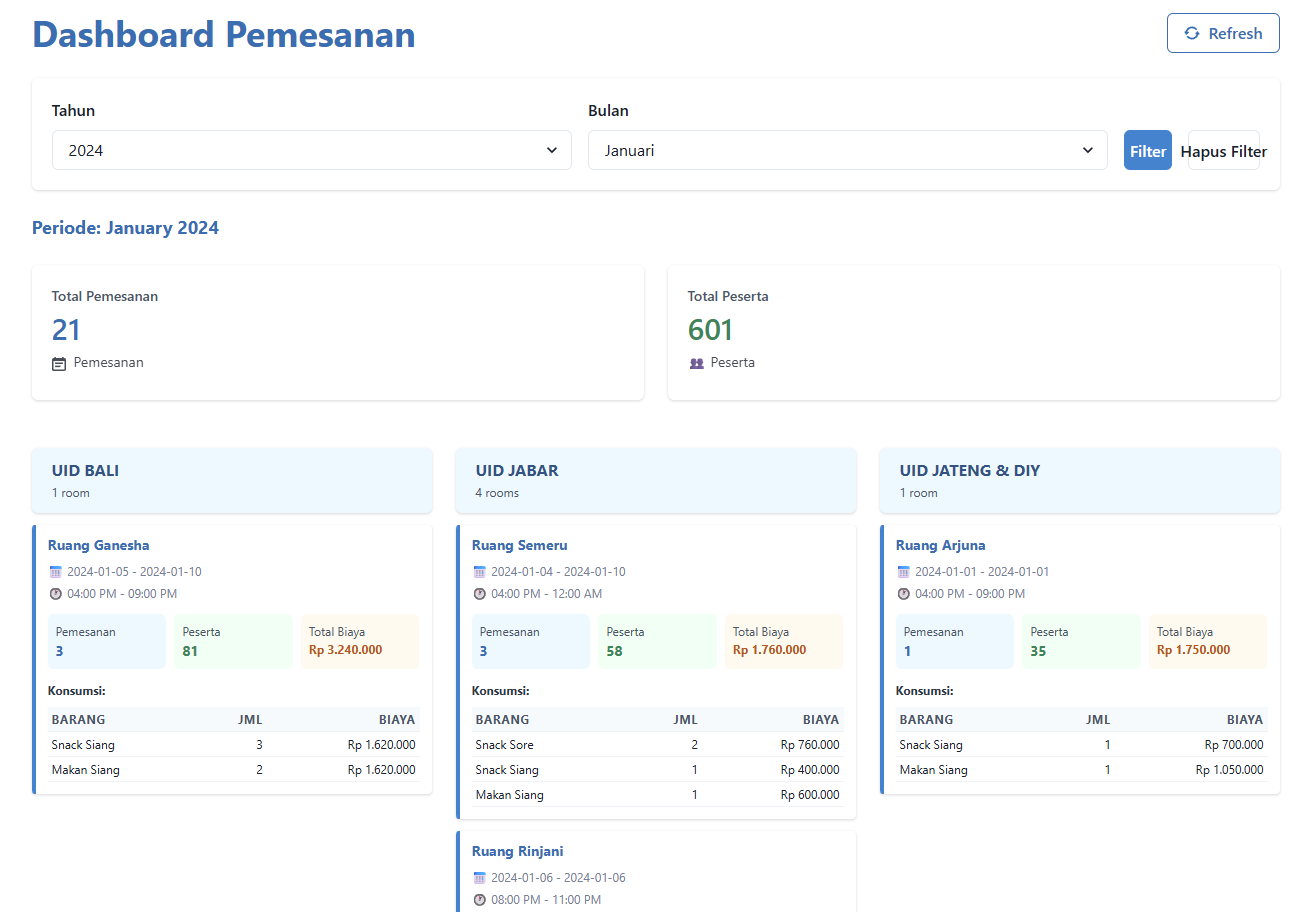
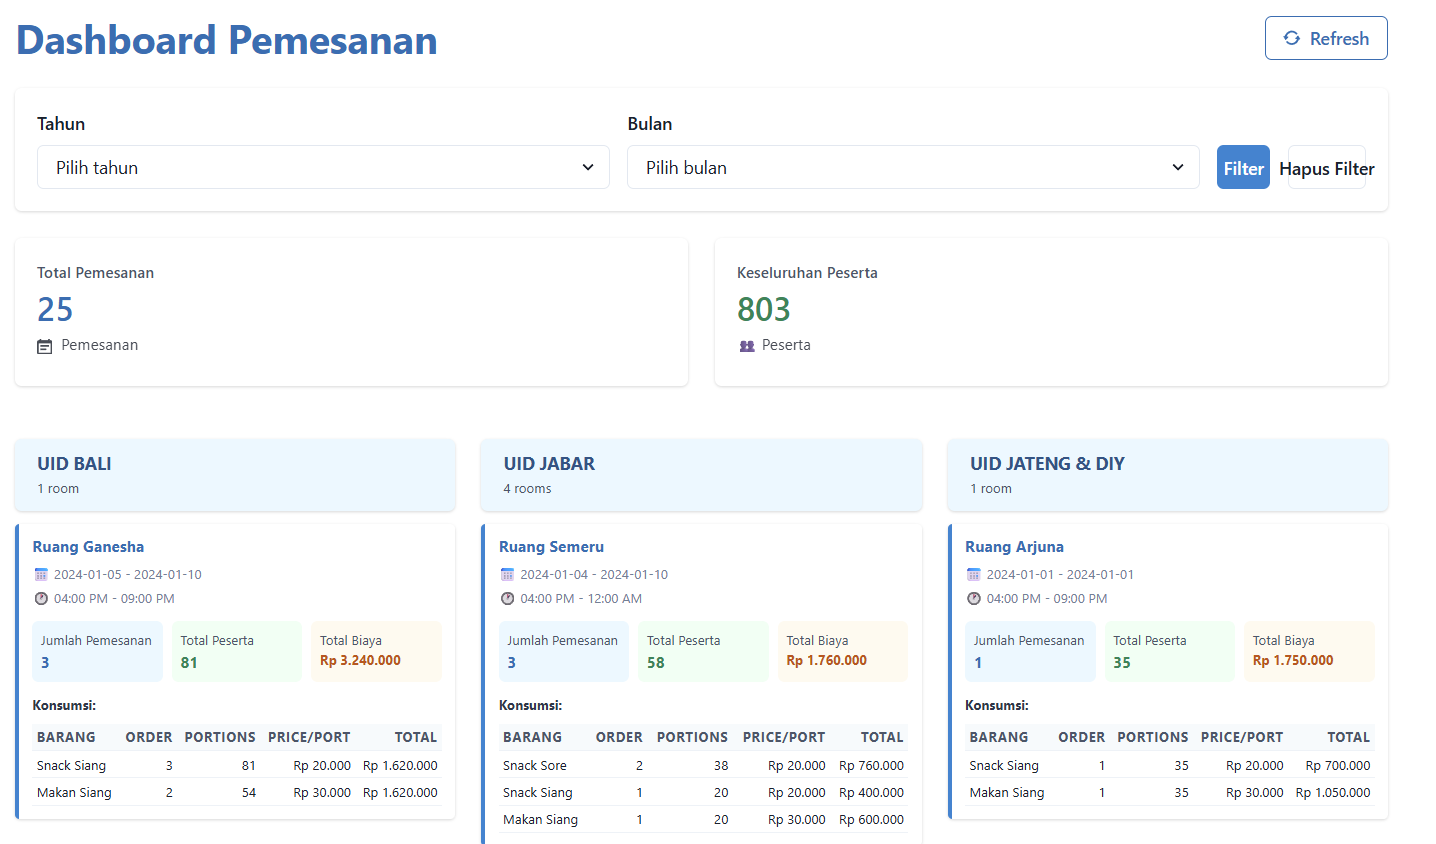
done

diff --git a/readme.md b/readme.md
@@ -37,138 +37,165 @@ Enjoy exploring the application!
 The following is an example response from the API endpoint `http://localhost:8000/v1/booking/summary`:
 
 ```json
-[
-    {
-        "officeName": "UID BALI",
-        "rooms": [
-            {
-                "roomName": "Ruang Ganesha",
-                "bookingCount": 3,
-                "totalParticipants": 81,
-                "consumptions": [
-                    {
-                        "consumptionName": "Snack Siang",
-                        "count": 3,
-                        "totalCost": 1620000
-                    },
-                    {
-                        "consumptionName": "Makan Siang",
-                        "count": 2,
-                        "totalCost": 1620000
-                    }
-                ],
-                "bookingStartDate": "2024-01-05",
-                "bookingEndDate": "2024-01-10",
-                "startTime": "2024-01-07T09:00:00Z",
-                "endTime": "2024-01-12T14:00:00Z"
-            }
-        ]
-    },
-    {
-        "officeName": "UID JABAR",
-        "rooms": [
-            {
-                "roomName": "Ruang Semeru",
-                "bookingCount": 3,
-                "totalParticipants": 58,
-                "consumptions": [
-                    {
-                        "consumptionName": "Snack Sore",
-                        "count": 2,
-                        "totalCost": 760000
-                    },
-                    {
-                        "consumptionName": "Snack Siang",
-                        "count": 1,
-                        "totalCost": 400000
-                    },
-                    {
-                        "consumptionName": "Makan Siang",
-                        "count": 1,
-                        "totalCost": 600000
-                    }
-                ],
-                "bookingStartDate": "2024-01-04",
-                "bookingEndDate": "2024-01-10",
-                "startTime": "2024-01-08T09:00:00Z",
-                "endTime": "2024-01-13T17:00:00Z"
-            },
-            {
-                "roomName": "Ruang Rinjani",
-                "bookingCount": 1,
-                "totalParticipants": 27,
-                "consumptions": [
-                    {
-                        "consumptionName": "Makan Siang",
-                        "count": 1,
-                        "totalCost": 810000
-                    },
-                    {
-                        "consumptionName": "Snack Sore",
-                        "count": 1,
-                        "totalCost": 540000
-                    }
-                ],
-                "bookingStartDate": "2024-01-06",
-                "bookingEndDate": "2024-01-06",
-                "startTime": "2024-01-08T13:00:00Z",
-                "endTime": "2024-01-08T16:00:00Z"
-            },
-            {
-                "roomName": "Ruang Galunggung",
-                "bookingCount": 1,
-                "totalParticipants": 23,
-                "consumptions": [
-                    {
-                        "consumptionName": "Snack Siang",
-                        "count": 1,
-                        "totalCost": 460000
-                    },
-                    {
-                        "consumptionName": "Makan Siang",
-                        "count": 1,
-                        "totalCost": 690000
-                    },
-                    {
-                        "consumptionName": "Snack Sore",
-                        "count": 1,
-                        "totalCost": 460000
-                    }
-                ],
-                "bookingStartDate": "2024-01-04",
-                "bookingEndDate": "2024-01-04",
-                "startTime": "2024-01-07T09:00:00Z",
-                "endTime": "2024-01-07T16:00:00Z"
-            },
-            {
-                "roomName": "Ruang Bromo",
-                "bookingCount": 1,
-                "totalParticipants": 20,
-                "consumptions": [
-                    {
-                        "consumptionName": "Snack Siang",
-                        "count": 1,
-                        "totalCost": 400000
-                    },
-                    {
-                        "consumptionName": "Makan Siang",
-                        "count": 1,
-                        "totalCost": 600000
-                    },
-                    {
-                        "consumptionName": "Snack Sore",
-                        "count": 1,
-                        "totalCost": 400000
-                    }
-                ],
-                "bookingStartDate": "2024-01-15",
-                "bookingEndDate": "2024-01-15",
-                "startTime": "2024-01-17T09:00:00Z",
-                "endTime": "2024-01-17T16:00:00Z"
-            }
-        ]
-    }
+"offices": [
+        {
+            "officeName": "UID BALI",
+            "rooms": [
+                {
+                    "roomName": "Ruang Ganesha",
+                    "bookingCount": 3,
+                    "totalParticipants": 81,
+                    "consumptions": [
+                        {
+                            "consumptionName": "Snack Siang",
+                            "orderCount": 3,
+                            "totalPortions": 81,
+                            "pricePerPortion": 20000,
+                            "totalCost": 1620000
+                        },
+                        {
+                            "consumptionName": "Makan Siang",
+                            "orderCount": 2,
+                            "totalPortions": 54,
+                            "pricePerPortion": 30000,
+                            "totalCost": 1620000
+                        }
+                    ],
+                    "bookingStartDate": "2024-01-05",
+                    "bookingEndDate": "2024-01-10",
+                    "startTime": "2024-01-07T09:00:00Z",
+                    "endTime": "2024-01-12T14:00:00Z"
+                }
+            ]
+        },
+        {
+            "officeName": "UID JABAR",
+            "rooms": [
+                {
+                    "roomName": "Ruang Semeru",
+                    "bookingCount": 3,
+                    "totalParticipants": 58,
+                    "consumptions": [
+                        {
+                            "consumptionName": "Snack Sore",
+                            "orderCount": 2,
+                            "totalPortions": 38,
+                            "pricePerPortion": 20000,
+                            "totalCost": 760000
+                        },
+                        {
+                            "consumptionName": "Snack Siang",
+                            "orderCount": 1,
+                            "totalPortions": 20,
+                            "pricePerPortion": 20000,
+                            "totalCost": 400000
+                        },
+                        {
+                            "consumptionName": "Makan Siang",
+                            "orderCount": 1,
+                            "totalPortions": 20,
+                            "pricePerPortion": 30000,
+                            "totalCost": 600000
+                        }
+                    ],
+                    "bookingStartDate": "2024-01-04",
+                    "bookingEndDate": "2024-01-10",
+                    "startTime": "2024-01-08T09:00:00Z",
+                    "endTime": "2024-01-13T17:00:00Z"
+                },
+                {
+                    "roomName": "Ruang Rinjani",
+                    "bookingCount": 1,
+                    "totalParticipants": 27,
+                    "consumptions": [
+                        {
+                            "consumptionName": "Makan Siang",
+                            "orderCount": 1,
+                            "totalPortions": 27,
+                            "pricePerPortion": 30000,
+                            "totalCost": 810000
+                        },
+                        {
+                            "consumptionName": "Snack Sore",
+                            "orderCount": 1,
+                            "totalPortions": 27,
+                            "pricePerPortion": 20000,
+                            "totalCost": 540000
+                        }
+                    ],
+                    "bookingStartDate": "2024-01-06",
+                    "bookingEndDate": "2024-01-06",
+                    "startTime": "2024-01-08T13:00:00Z",
+                    "endTime": "2024-01-08T16:00:00Z"
+                },
+                {
+                    "roomName": "Ruang Galunggung",
+                    "bookingCount": 1,
+                    "totalParticipants": 23,
+                    "consumptions": [
+                        {
+                            "consumptionName": "Snack Siang",
+                            "orderCount": 1,
+                            "totalPortions": 23,
+                            "pricePerPortion": 20000,
+                            "totalCost": 460000
+                        },
+                        {
+                            "consumptionName": "Makan Siang",
+                            "orderCount": 1,
+                            "totalPortions": 23,
+                            "pricePerPortion": 30000,
+                            "totalCost": 690000
+                        },
+                        {
+                            "consumptionName": "Snack Sore",
+                            "orderCount": 1,
+                            "totalPortions": 23,
+                            "pricePerPortion": 20000,
+                            "totalCost": 460000
+                        }
+                    ],
+                    "bookingStartDate": "2024-01-04",
+                    "bookingEndDate": "2024-01-04",
+                    "startTime": "2024-01-07T09:00:00Z",
+                    "endTime": "2024-01-07T16:00:00Z"
+                },
+                {
+                    "roomName": "Ruang Bromo",
+                    "bookingCount": 1,
+                    "totalParticipants": 20,
+                    "consumptions": [
+                        {
+                            "consumptionName": "Snack Siang",
+                            "orderCount": 1,
+                            "totalPortions": 20,
+                            "pricePerPortion": 20000,
+                            "totalCost": 400000
+                        },
+                        {
+                            "consumptionName": "Makan Siang",
+                            "orderCount": 1,
+                            "totalPortions": 20,
+                            "pricePerPortion": 30000,
+                            "totalCost": 600000
+                        },
+                        {
+                            "consumptionName": "Snack Sore",
+                            "orderCount": 1,
+                            "totalPortions": 20,
+                            "pricePerPortion": 20000,
+                            "totalCost": 400000
+                        }
+                    ],
+                    "bookingStartDate": "2024-01-15",
+                    "bookingEndDate": "2024-01-15",
+                    "startTime": "2024-01-17T09:00:00Z",
+                    "endTime": "2024-01-17T16:00:00Z"
+                }
+            ]
+        },
 ]
+```
 ## Frontend Example
 
 Below is a screenshot of the frontend application:
